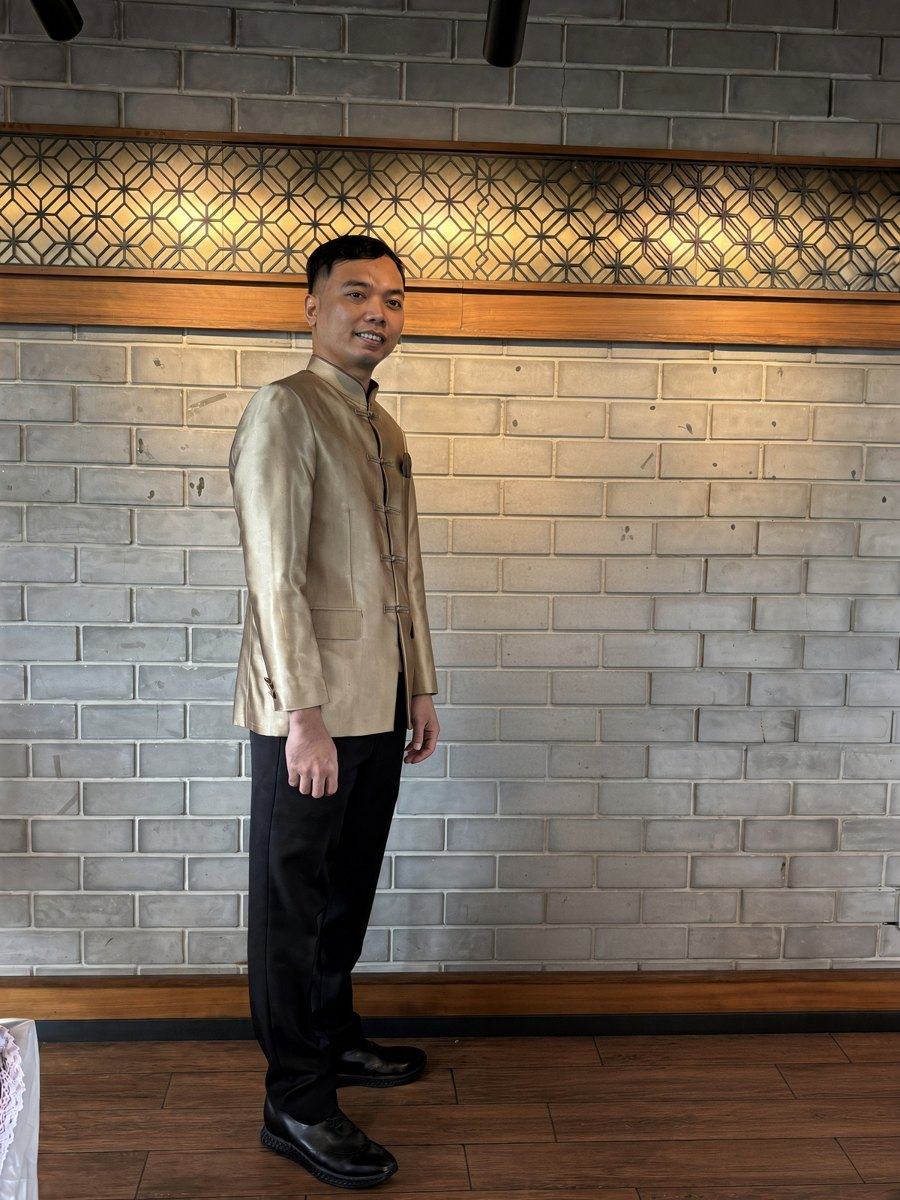
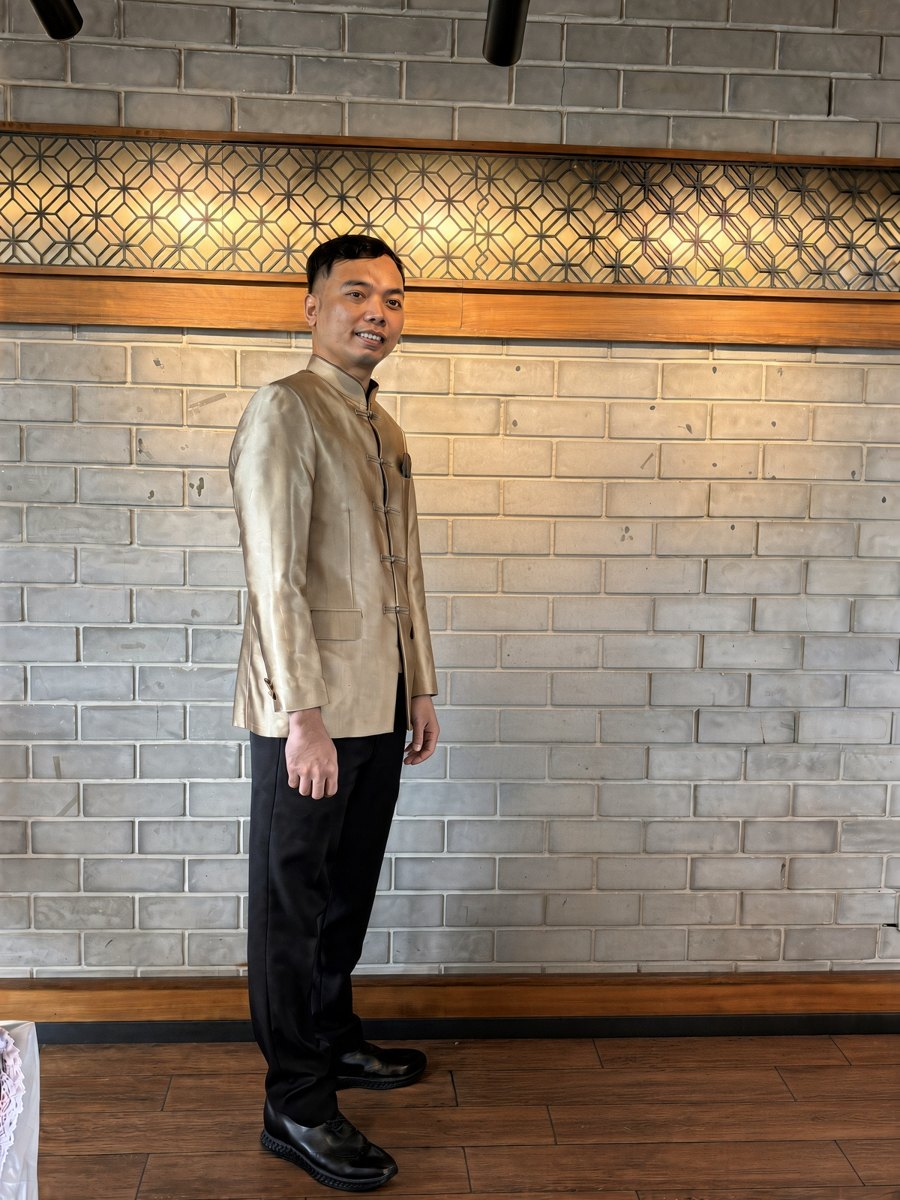
update

diff --git a/index.html b/index.html
@@ -2311,7 +2311,7 @@
 					<div class="profile-card">
 						<div class="profile-photo" data-slideshow="4500">
 							<img class="active" src="Images/groom.jpg?v=1" alt="Pascario Tri Yudanto" loading="eager" decoding="async" style="--s:3.2; --ox:52%; --oy:50%; --fy:50%; object-position:50% 5%;">
-							<img src="Images/groom-2.jpg?v=2" alt="Pascario Tri Yudanto" loading="eager" decoding="async" style="--s:2.1; --ox:39.6%; --oy:33%; --fx:54%; --fy:28%; object-position:50% 0%;">
+							<img src="Images/groom-2.jpg?v=3" alt="Pascario Tri Yudanto" loading="eager" decoding="async" style="--s:2.1; --ox:39.6%; --oy:33%; --fx:54%; --fy:28%; object-position:50% 0%;">
 						</div>
 						<div class="profile-name">Pascario Tri Yudanto</div>
 						<div class="profile-parent">
